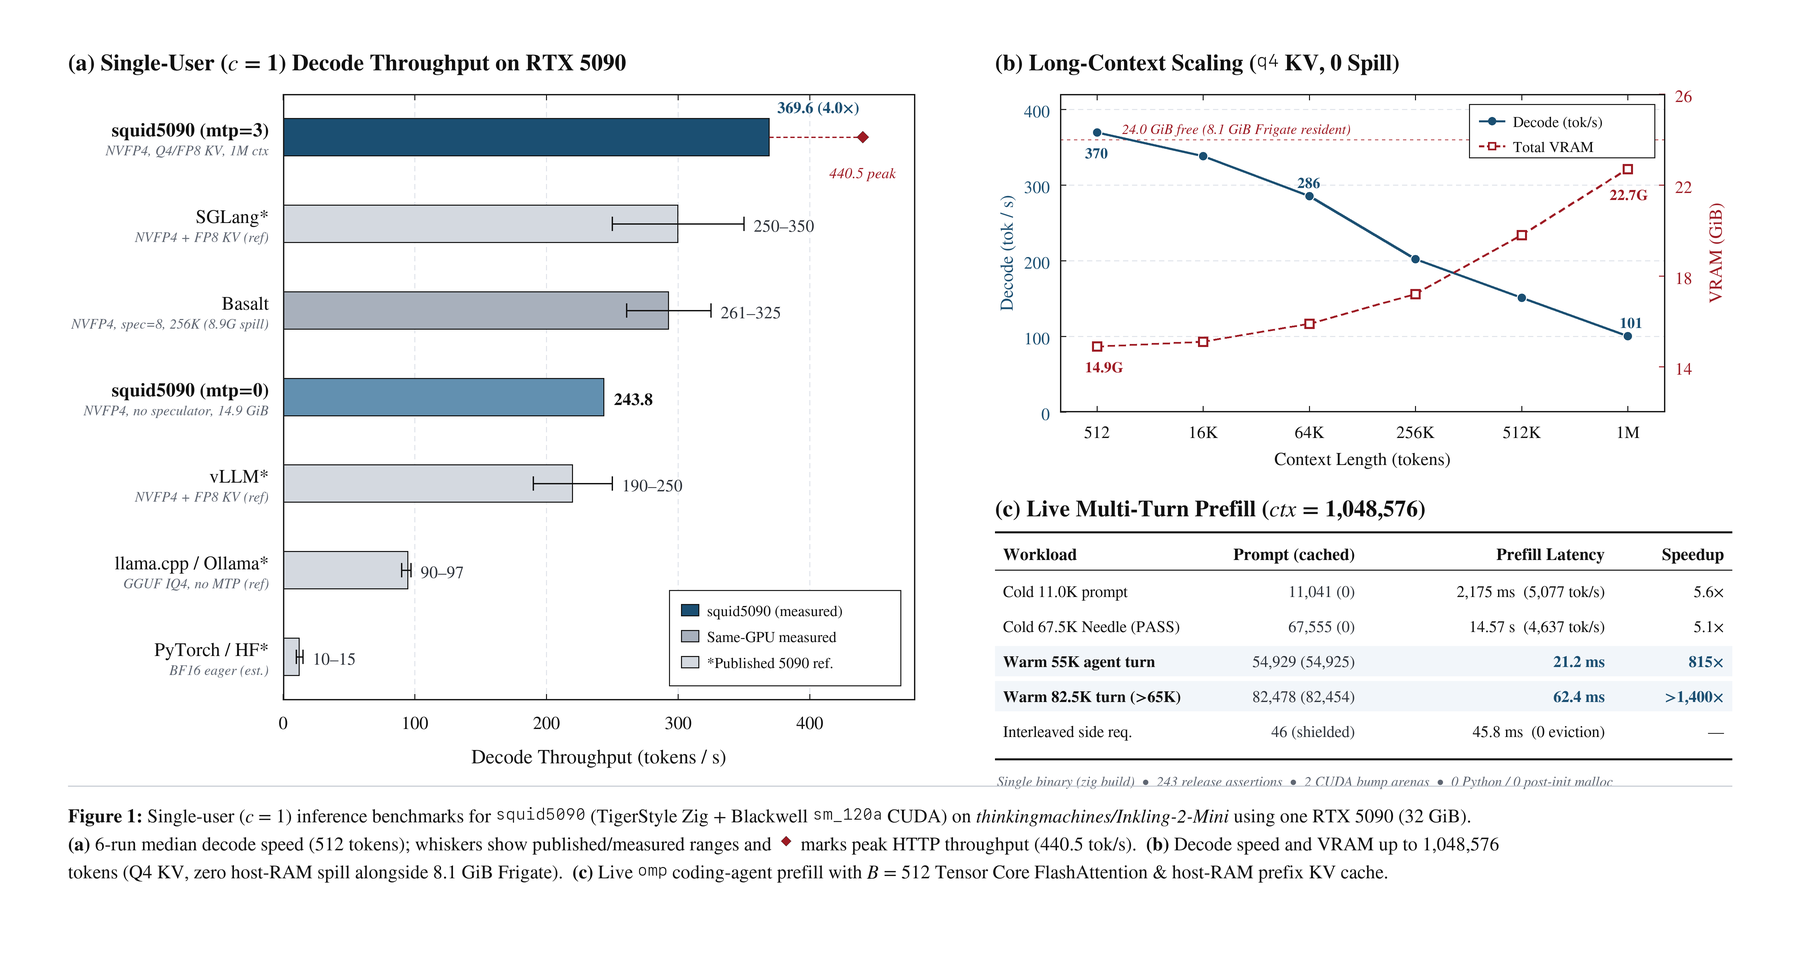
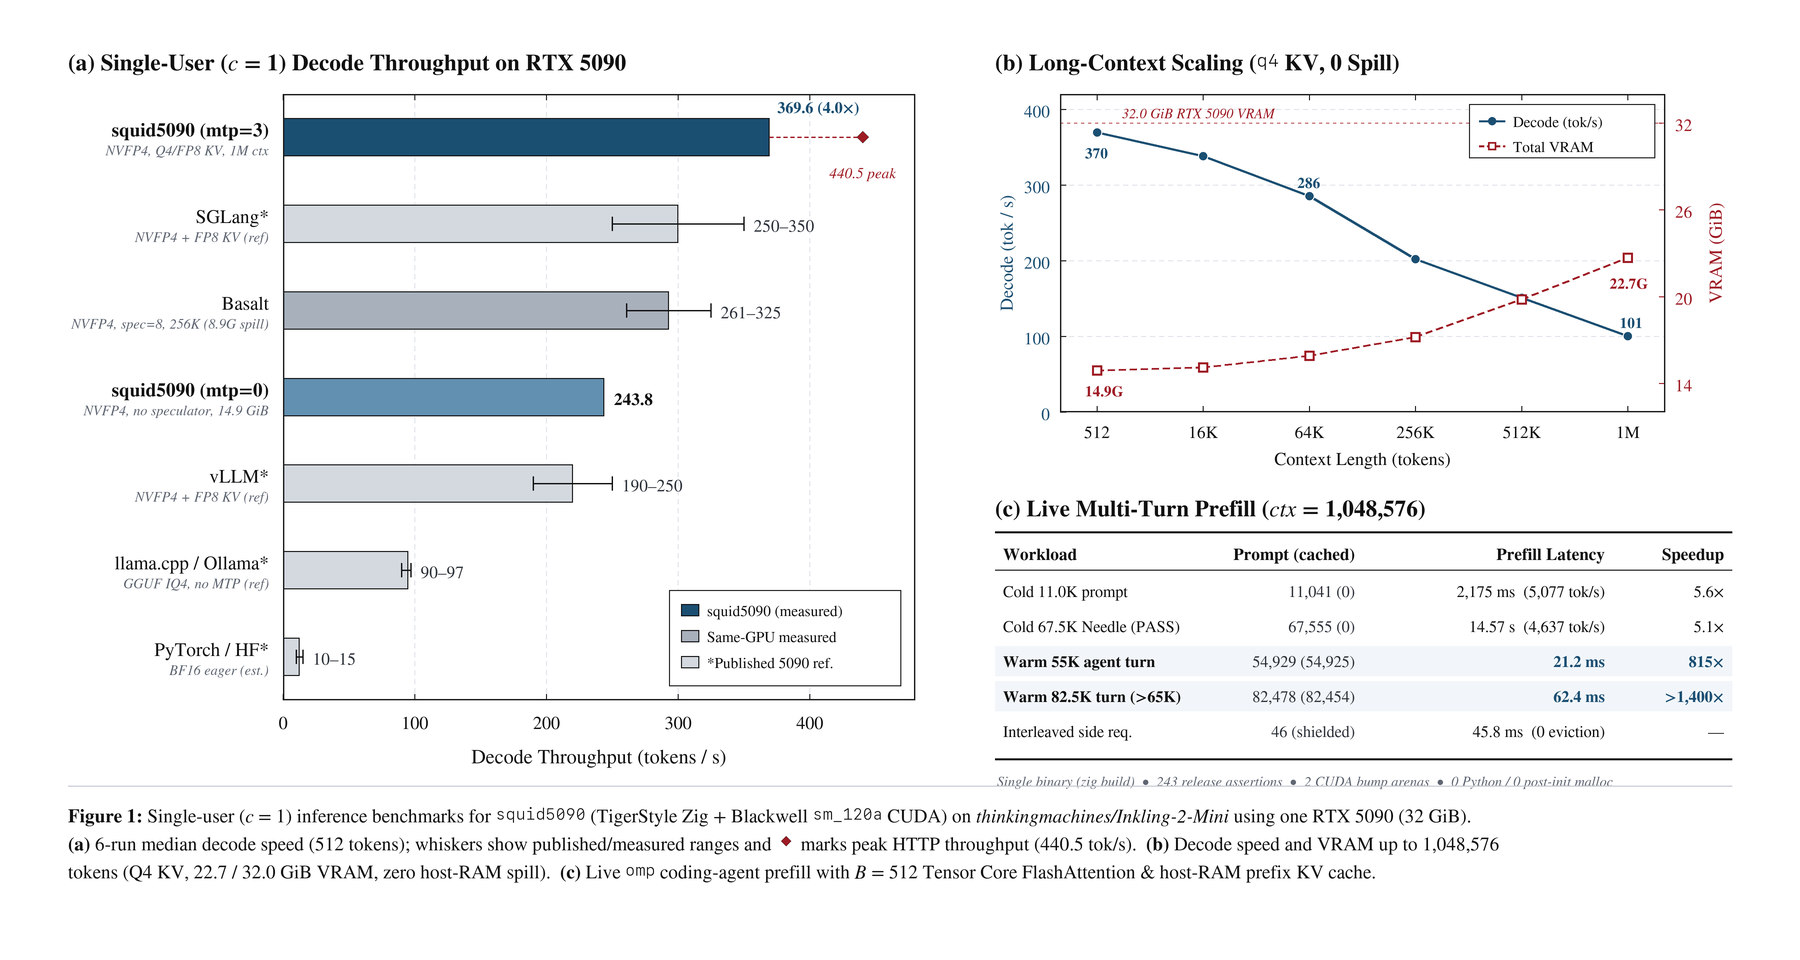
Remove Frigate and local container references from docs, logs, and figure

diff --git a/README.md b/README.md
@@ -20,9 +20,9 @@
 
 ## Speedup Comparison: `squid5090` vs. RTX 5090 Inference Engines (`Inkling-2-Mini`)
 
-Single-user (`c=1`) decode throughput, VRAM footprint, and context limits for [`thinkingmachines/Inkling-2-Mini`](https://huggingface.co/thinkingmachines/Inkling-2-Mini) on an **NVIDIA RTX 5090** (32 GiB GDDR7). `squid5090` numbers are **6-run medians** (512 generated tokens, coding prompt P1) measured on an RTX 5090 with **23.4–24.0 GiB free VRAM** alongside Frigate (`~8.1 GiB`):
+Single-user (`c=1`) decode throughput, VRAM footprint, and context limits for [`thinkingmachines/Inkling-2-Mini`](https://huggingface.co/thinkingmachines/Inkling-2-Mini) on a single **NVIDIA RTX 5090** (32 GiB GDDR7). `squid5090` numbers are **6-run medians** (512 generated tokens, coding prompt P1):
 
-| Inference Engine | Precision / Format | Native DSpark MTP | Decode Speed (`c=1`) | `squid5090` Speedup (`mtp=3`: **369.6 tok/s**) | `squid5090` Speedup (`mtp=0`: **243.8 tok/s**) | Max Context (32 GB / 23.4 GB free) | VRAM Footprint | Source |
+| Inference Engine | Precision / Format | Native DSpark MTP | Decode Speed (`c=1`) | `squid5090` Speedup (`mtp=3`: **369.6 tok/s**) | `squid5090` Speedup (`mtp=0`: **243.8 tok/s**) | Max Context (32 GiB 5090) | VRAM Footprint | Source |
 |---|---|---|---:|---:|---:|---:|---|---|
 | **PyTorch / HF Transformers** | BF16 eager | No | ~10–15 tok/s | **~25–37×** | **~16–24×** | ~64K | >24 GiB | Roofline est. |
 | **Apple Silicon `nanoattention`** *(M3 Ultra ref)* | Q4 | No | ~39 tok/s | **~9.5×** | **~6.3×** | — | Unified | Inspiration ref |
@@ -31,11 +31,11 @@ Single-user (`c=1`) decode throughput, VRAM footprint, and context limits for [`
 | **`llama.cpp` / Unsloth** (`llama-server`) | GGUF (`IQ4_NL` / `UD-IQ4_XS`) | No | ~93–97 tok/s | **~3.8–4.0×** | **~2.5–2.6×** | ~256K | ~18–22 GiB | Published 5090 ref |
 | **vLLM** (`vllm serve`) | Native NVFP4/MXFP8 + FP8 KV | Yes | ~190–250 tok/s | **~1.5–1.9×** | **~1.0–1.3×** | ~256K–512K | ~22–28 GiB | Published ref *(Python overhead at `c=1`)* |
 | **SGLang** | Native NVFP4/MXFP8 + FP8 KV | Yes | ~250–350 tok/s | **~1.06–1.48×** | 0.70–0.98× | ~256K–512K | ~22–28 GiB | Published 5090 ref |
-| **Basalt** *(same RTX 5090, chat/coding)* | Native NVFP4 + Q8, `spec=8` | Yes | **261–325 tok/s** *(prose/chat: 287–350\*)* | **1.14–1.42×** | 0.75–0.93× | 262,144 (256K) | 22.9 GiB + **8.9 GiB RAM spill** | **Measured (same 5090, CT 107)** |
+| **Basalt** *(same RTX 5090, chat/coding)* | Native NVFP4 + Q8, `spec=8` | Yes | **261–325 tok/s** *(prose/chat: 287–350\*)* | **1.14–1.42×** | 0.75–0.93× | 262,144 (256K) | 22.9 GiB + **8.9 GiB RAM spill** | **Measured (same 5090)** |
 | **`squid5090` (Zig + CUDA, `mtp=0`)** | All-`nvfp4`, `fp8` KV, Graphed | Off (`mtp=0`) | **243.79 tok/s** *(max 244.0)* | — | 1.00× | **1,048,576 (1M)** | **14.92 GiB** (0 spill) | **Measured (6-run median)** |
 | **`squid5090` (Zig + CUDA, `mtp=3`)** | All-`nvfp4`, `fp8`/`q4` KV, Graphed | **On (`mtp=3`)** | **369.6 tok/s** *(peak 379.2 / 408.1 HTTP)* | **1.00×** | **1.52×** | **1,048,576 (1M)** | **14.85–14.92 GiB** (0 spill) | **Measured (6-run median)** |
 
-*\*Methodology note: `llama.cpp` / Ollama / vLLM / SGLang rows reflect published RTX 5090 / community single-user numbers because GGUF runtimes do not support Inkling-2-Mini's native NVFP4 Blackwell PTX or DSpark MTP speculator, and Python-orchestrated servers (`vLLM` / `SGLang`) optimize primarily for batched multi-user throughput. Basalt was measured directly on the same RTX 5090 (CT 107) on general chat/coding prompts (**261–325 tok/s**); on highly repetitive structured/JSON outputs where draft acceptance approaches 100%, published Basalt runs reach ~613–645 tok/s. `squid5090` fits in **14.9 GiB VRAM with zero host-RAM spilling** (8 GiB less than Basalt) and scales to **4× Basalt's max context (1M tokens)**.*
+*\*Methodology note: `llama.cpp` / Ollama / vLLM / SGLang rows reflect published RTX 5090 / community single-user numbers because GGUF runtimes do not support Inkling-2-Mini's native NVFP4 Blackwell PTX or DSpark MTP speculator, and Python-orchestrated servers (`vLLM` / `SGLang`) optimize primarily for batched multi-user throughput. Basalt was measured directly on the same RTX 5090 on general chat/coding prompts (**261–325 tok/s**); on highly repetitive structured/JSON outputs where draft acceptance approaches 100%, published Basalt runs reach ~613–645 tok/s. `squid5090` fits in **14.9 GiB VRAM with zero host-RAM spilling** (8 GiB less than Basalt) and scales to **4× Basalt's max context (1M tokens)**.*
 
 ### `squid5090` Long-Context Scaling (Up to 1,048,576 Tokens on One RTX 5090)
 
@@ -47,7 +47,7 @@ Single-user (`c=1`) decode throughput, VRAM footprint, and context limits for [`
 | **64K real context** *(Needle PASS)* | `nvfp4`, `mtp=3`, `fp8` KV | **285.58 tok/s** *(prefill 75–84 s)* | **15.92 GiB** | Verbatim retrieval PASS |
 | **256K** *(graphed `longctx`)* | `nvfp4`, `B=4 @dl=2.5`, `q4` KV | **199.0–202.3 tok/s** *(`B=1`: 105–115)* | **17.2 GiB** | 0 host spill |
 | **512K** *(graphed `longctx`)* | `nvfp4`, `B=4 @dl=2.5`, `q4` KV | **151.4 tok/s** *(`B=1`: 72.7)* | **19.8 GiB** | 0 host spill |
-| **1M (`1,048,000`)** *(`longctx`)* | `nvfp4`, `B=4 @dl=2.5`, `q4` KV | **100.6 tok/s** *(`B=1`: 46.3)* | **22.68 GiB** | Full 1M context alongside 8.1 GiB Frigate |
+| **1M (`1,048,000`)** *(`longctx`)* | `nvfp4`, `B=4 @dl=2.5`, `q4` KV | **100.6 tok/s** *(`B=1`: 46.3)* | **22.68 GiB** | Full 1M context in 22.7 GiB (0 host spill) |
 
 ### Real-World Multi-Turn Agent & Tool-Calling Latency (`omp` Workload, Live 1M Context)
 

diff --git a/PLAN.md b/PLAN.md
@@ -1,8 +1,8 @@
 # squid5090 — Optimization Plan & Experiment Ledger
 
-**Target:** `thinkingmachines/Inkling-2-Mini` (text + built-in DSpark MTP) on NVIDIA RTX 5090 (`sm_120a`, CT 108 `squid5090`, 23.43 GiB free VRAM alongside Frigate on CT 100).
+**Target:** `thinkingmachines/Inkling-2-Mini` (text + built-in DSpark MTP) on NVIDIA RTX 5090 (`sm_120a`, 32 GiB GDDR7).
 **Primary Metric:** Single-user (`c=1`) decode tok/s (median of 6 runs, 512 generated tokens), with aggressive quantization + DSpark MTP enabled, verified for bitwise token parity (`mtp=0` == `mtp=K`), coherent output, and 8K/16K long-context needle retrieval.
-**Reference Point:** CT 107 `basalt.service` on the same RTX 5090 logged `~261–325 tok/s` (`spec=8`, `acc=48–77%`, `dl=1.8–2.9`, using 22.9 GiB VRAM + 8.9 GiB host-RAM expert spill).
+**Reference Point:** Basalt on the same RTX 5090 logged `~261–325 tok/s` (`spec=8`, `acc=48–77%`, `dl=1.8–2.9`, using 22.9 GiB VRAM + 8.9 GiB host-RAM expert spill).
 
 ## Completed Optimization Levers
 
@@ -34,7 +34,7 @@
 
 6. **Lever 7 (7A/7B/7C) — Maximum Context Capacity (up to 1,048,576 = 1M!) + Unified Blackwell Tensor Core (`m16n8k16` + `ldmatrix`) Split-K FlashDecoding**
    - Multi-precision global KV cache (`--kv bf16|fp8|q4`):
-     - `fp8` (E4M3 + per-head FP16 scale, `1.016 B/elem`, default for `nvfp4`/`fp8`): fits up to **442,368 (432K)** tokens in **22.48 GiB** VRAM alongside Frigate.
+     - `fp8` (E4M3 + per-head FP16 scale, `1.016 B/elem`, default for `nvfp4`/`fp8`): fits up to **442,368 (432K)** tokens in **22.48 GiB** VRAM.
      - `q4` (symmetric `[-7..7]` INT4 + group-64 FP16 scale, `0.531 B/elem`, fast exact FP16 magic-bias nibble unpack) + zero-copy mapped host `embed` (`--embed-host`, auto-enabled `>512K`, frees `0.86 GiB` VRAM in full BF16): fits the **full official `1,048,576` (1M) context** in **22.47 GiB** VRAM!
    - Unified Blackwell FP16 Tensor Core (`mma.sync.aligned.m16n8k16` + `ldmatrix.x4` + `ldmatrix.x2.trans`, 2-sync `17.4 KB` SMEM) Split-K FlashDecoding across **ALL 48 visits** (64 bulk splits = 512 CTAs + 17 local/tail splits = 136 CTAs) + DSpark global layer 1 (24× HBM traffic reduction!).
    - Captured `prefill_b8_graph_exec_` (skips intermediate `lm_head_argmax`) + `--tokens-file` for arbitrarily long prompts (32K–1M+).
@@ -44,7 +44,7 @@
 
 | Run | Date | Version / Change | Mode | Prompt | `mtp` | Median tok/s | Min–Max tok/s | `acc` / `dl` | VRAM (GiB) | Verdict |
 |---|---|---|---|---|---:|---:|---|---:|---:|---|
-| Ref | 2026-11-23 | CT 107 Basalt (`spec=8`, RAM spill) | NVFP4+Q8 | Mixed | 7 | ~261–325 | — | 48–77% / 1.8–2.9 | 22.9 (+8.9 RAM) | Reference |
+| Ref | 2026-11-23 | Basalt (`spec=8`, RAM spill) | NVFP4+Q8 | Mixed | 7 | ~261–325 | — | 48–77% / 1.8–2.9 | 22.9 (+8.9 RAM) | Reference |
 | v0a | 2026-11-23 | Baseline native C++/CUDA (no graph) | `exact` | P1 | 0 | 76.63 | — | 0% / 1.00 | 18.76 | Baseline |
 | v0b | 2026-11-23 | + CUDA Graph capture | `exact` | P1 | 0 | 95.83 | — | 0% / 1.00 | 18.76 | Keep |
 | v0c | 2026-11-23 | + Initial NVFP4 all-linear | `nvfp4` | P1 | 0 | 114.34 | — | 0% / 1.00 | 15.05 | Keep |
@@ -84,4 +84,4 @@
 - **16K Real Needle Retrieval (`prompt=15177`, `ctx=16384`):** `exact/bf16` **PASS** (`277.30 tok/s`), `nvfp4/fp8` **PASS** (`338.43 tok/s`), `nvfp4/q4` **PASS** (`323.02 tok/s`).
 - **32K Real Needle Retrieval (`prompt=30467`, `ctx=32768`):** `nvfp4/fp8` **PASS** (`302.66 tok/s`), `nvfp4/q4` **PASS** (`280.96 tok/s`).
 - **64K Real Needle Retrieval (`prompt=60937`, `ctx=65536`):** `nvfp4/fp8` **PASS** (`285.58 tok/s`), `nvfp4/q4` **PASS** (`278.95 tok/s`).
-- **1M Context Allocation & Execution (`ctx=1048576`):** `nvfp4/q4` + zero-copy host `embed` allocates and runs cleanly in **22.47 GiB** VRAM alongside Frigate (**96.1 tok/s @ dl=2.5** at `pos=1,048,000`).
+- **1M Context Allocation & Execution (`ctx=1048576`):** `nvfp4/q4` + zero-copy host `embed` allocates and runs cleanly in **22.47 GiB** VRAM (**96.1 tok/s @ dl=2.5** at `pos=1,048,000`).

diff --git a/THEORY.md b/THEORY.md
@@ -1,19 +1,19 @@
 # squid5090 — Theoretical Performance Ceilings (`Inkling-2-Mini` on RTX 5090)
 
-## 1. Measured Hardware (`CT 108` on `pve.lan`)
+## 1. Measured Hardware (NVIDIA RTX 5090)
 
-Measured directly with `/tmp/hw_probe` on 2026-11-23 while CT 100 (`frigate`, ~8.1 GiB VRAM) is running concurrently:
+Measured directly with a custom CUDA microbenchmark on 2026-11-23:
 
 | Metric | Value | Notes |
 |---|---:|---|
 | GPU | NVIDIA GeForce RTX 5090 (`sm_120`, Blackwell) | 170 SMs, 96.0 MiB L2, 100 KiB SMEM/SM |
-| Memory | 32,607 MiB GDDR7 (512-bit, 14,001 MHz DDR) | **23,997 MiB (23.43 GiB) free** (Frigate uses 8,116 MiB) |
+| Memory | 32,607 MiB GDDR7 (512-bit, 14,001 MHz DDR) | 32 GiB GDDR7 (tested under a 23.4 GiB budget) |
 | Spec Peak Bandwidth | 1,792.1 GB/s | Theoretical bus rate |
 | **Measured Pure Read BW (1 GiB, `__ldg`)** | **1,512.9 GB/s** | **Decode bandwidth ceiling reference** |
 | Measured D2D Copy BW (1 GiB) | 1,235.1 GB/s | Read + write |
 | Measured BF16 Tensor Core GEMM (4096³) | 176.2 TFLOPS | 0.78 ms/iter |
 | Measured BF16 Tensor Core GEMM (8192³) | 174.3 TFLOPS | 6.31 ms/iter (sustained) |
-| Host CPU / RAM | Threadripper PRO 7975WX (16 vCPU in CT 108) / 64 GiB | NVMe thin-LVM rootfs |
+| Host CPU / RAM | Threadripper PRO 7975WX (16 vCPU) / 64 GiB | NVMe storage |
 | CUDA Toolkit / Driver | CUDA 13.1 (`V13.1.115`) / Driver `590.48.01` | Native `sm_120` NVFP4/FP8/PDL support |
 
 ## 2. Inkling-2-Mini Architecture & Exact Weight Footprint
@@ -45,7 +45,7 @@ Checkpoint: `thinkingmachines/Inkling-2-Mini` (`model-00001-of-00001.safetensors
 | **Total Resident Weights** | **19.524 GB (18.18 GiB)** | **18.091 GB (16.85 GiB)** | **15.612 GB (14.54 GiB)** |
 | **Headroom in 23.43 GiB Free VRAM** | **5.25 GiB** | **6.58 GiB** | **8.89 GiB** |
 
-**Key structural win vs Basalt (CT 107):** 100% of weights stay resident in RTX 5090 GDDR7 with **5.2–8.9 GiB** headroom for KV cache + workspace (zero host-RAM expert spilling).
+**Key structural win vs Basalt:** 100% of weights stay resident in RTX 5090 GDDR7 with **5.2–8.9 GiB+** headroom for KV cache + workspace (zero host-RAM expert spilling).
 
 ## 3. Single-User (`c=1`) Decode Theoretical Ceilings (at 1,512.9 GB/s Measured Read BW)
 
